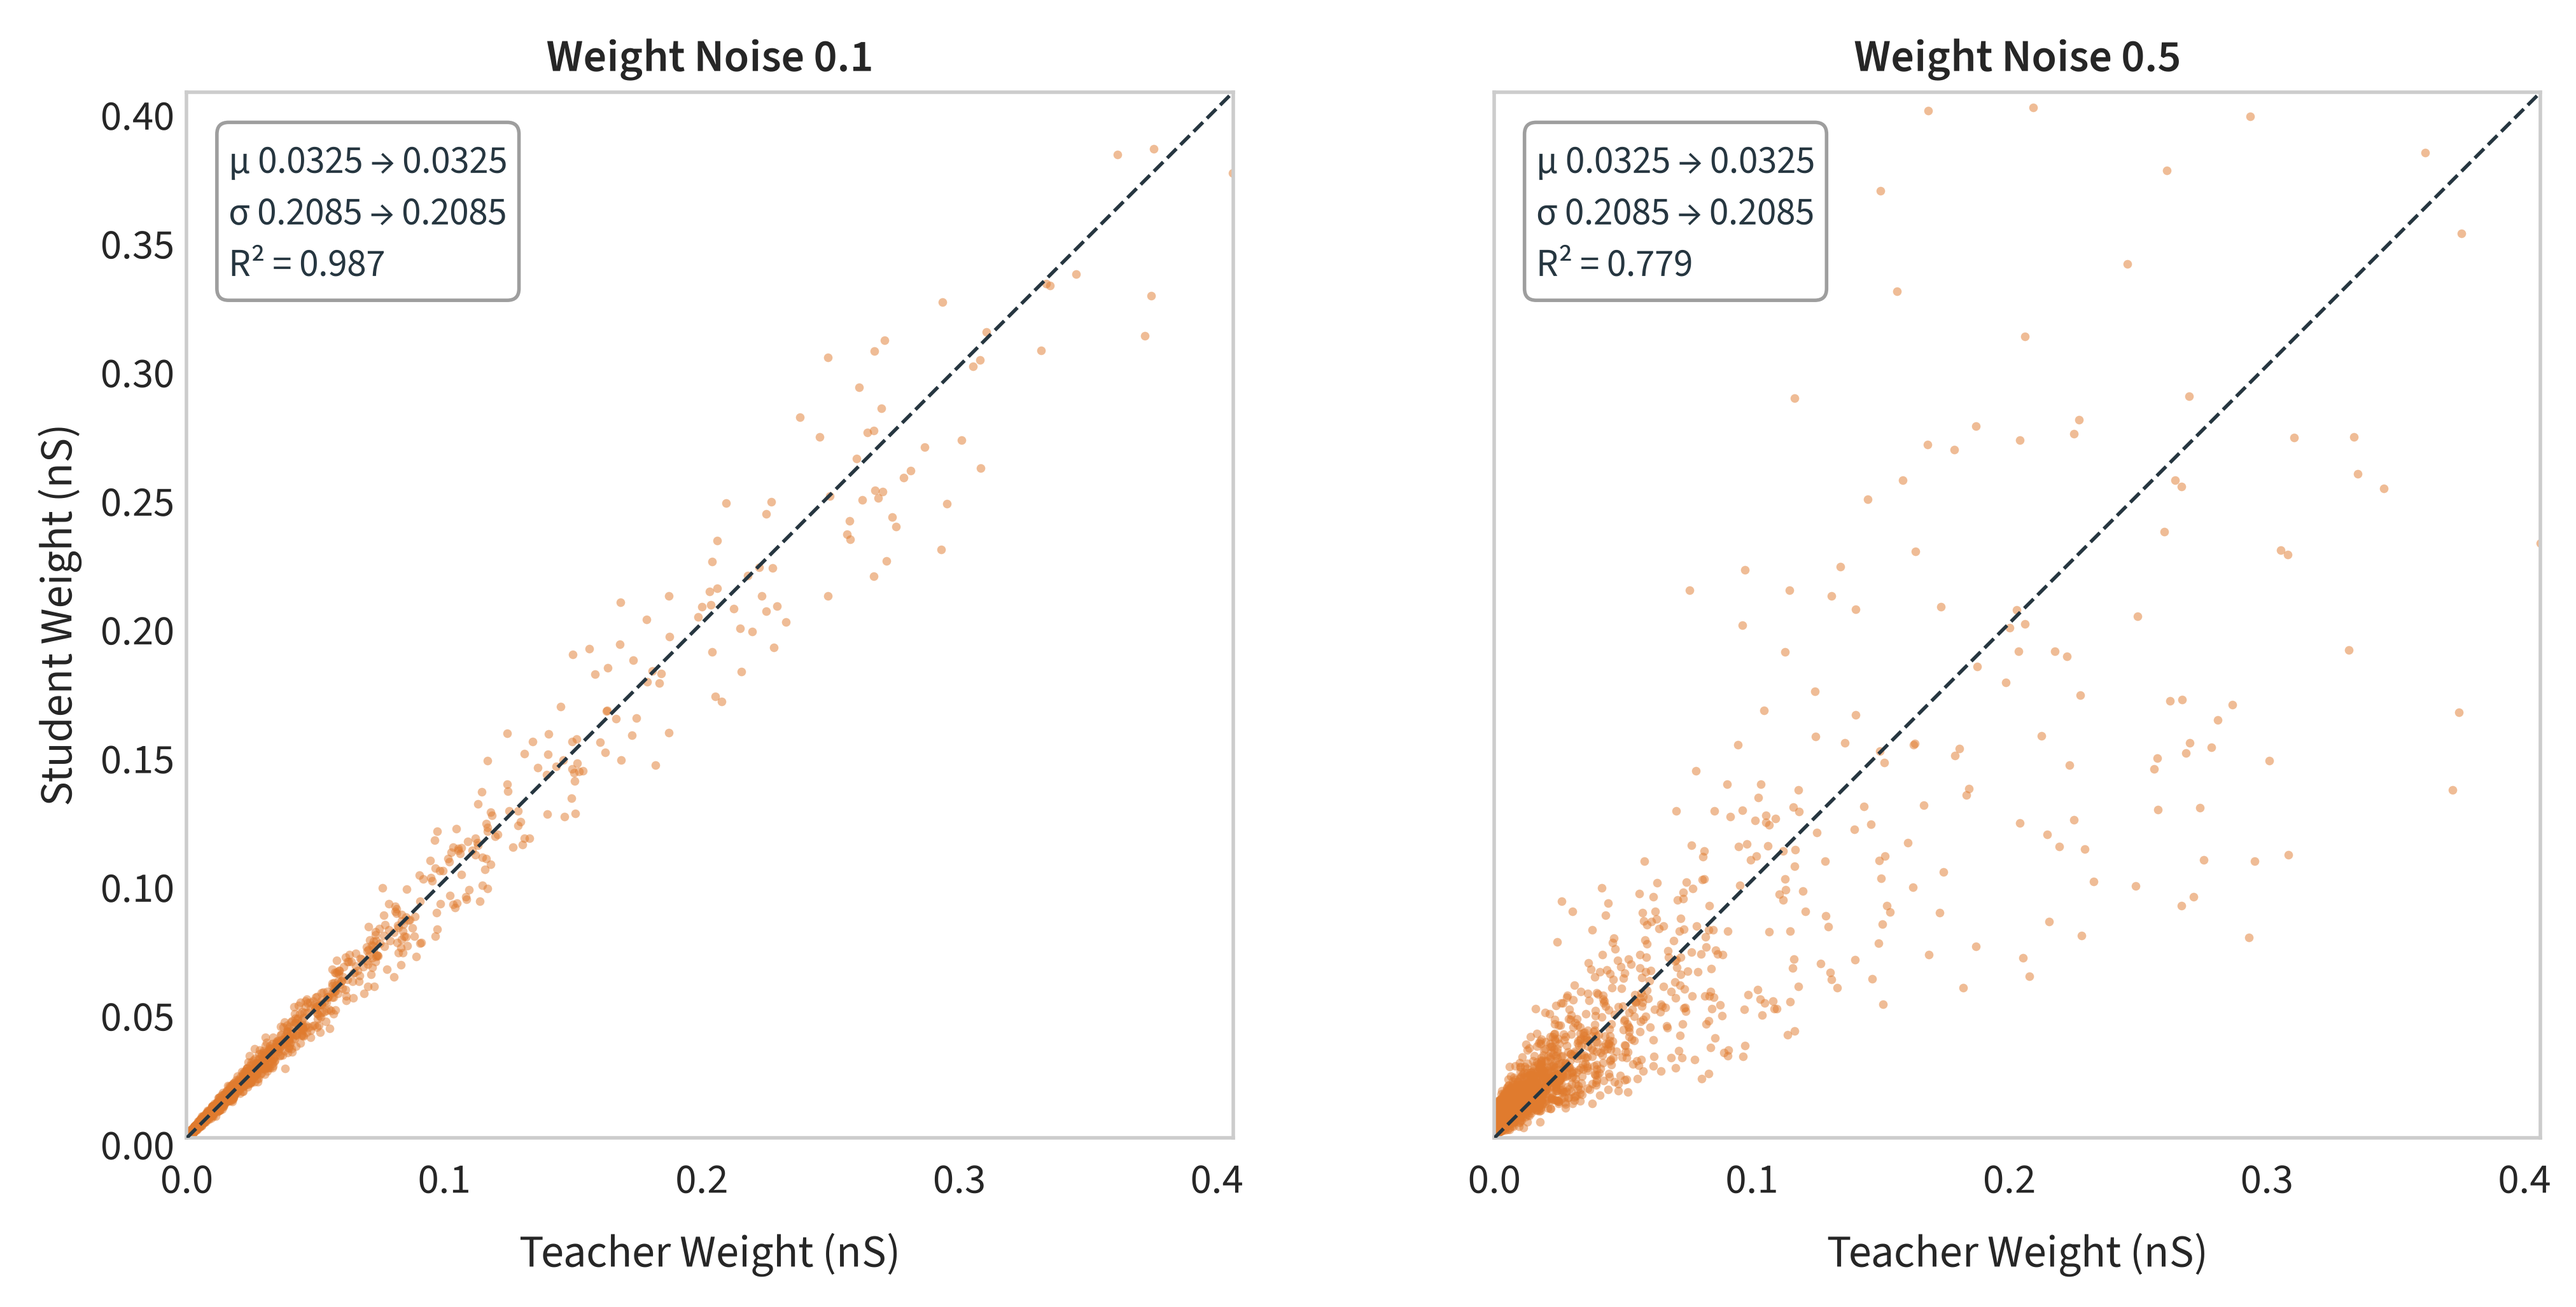
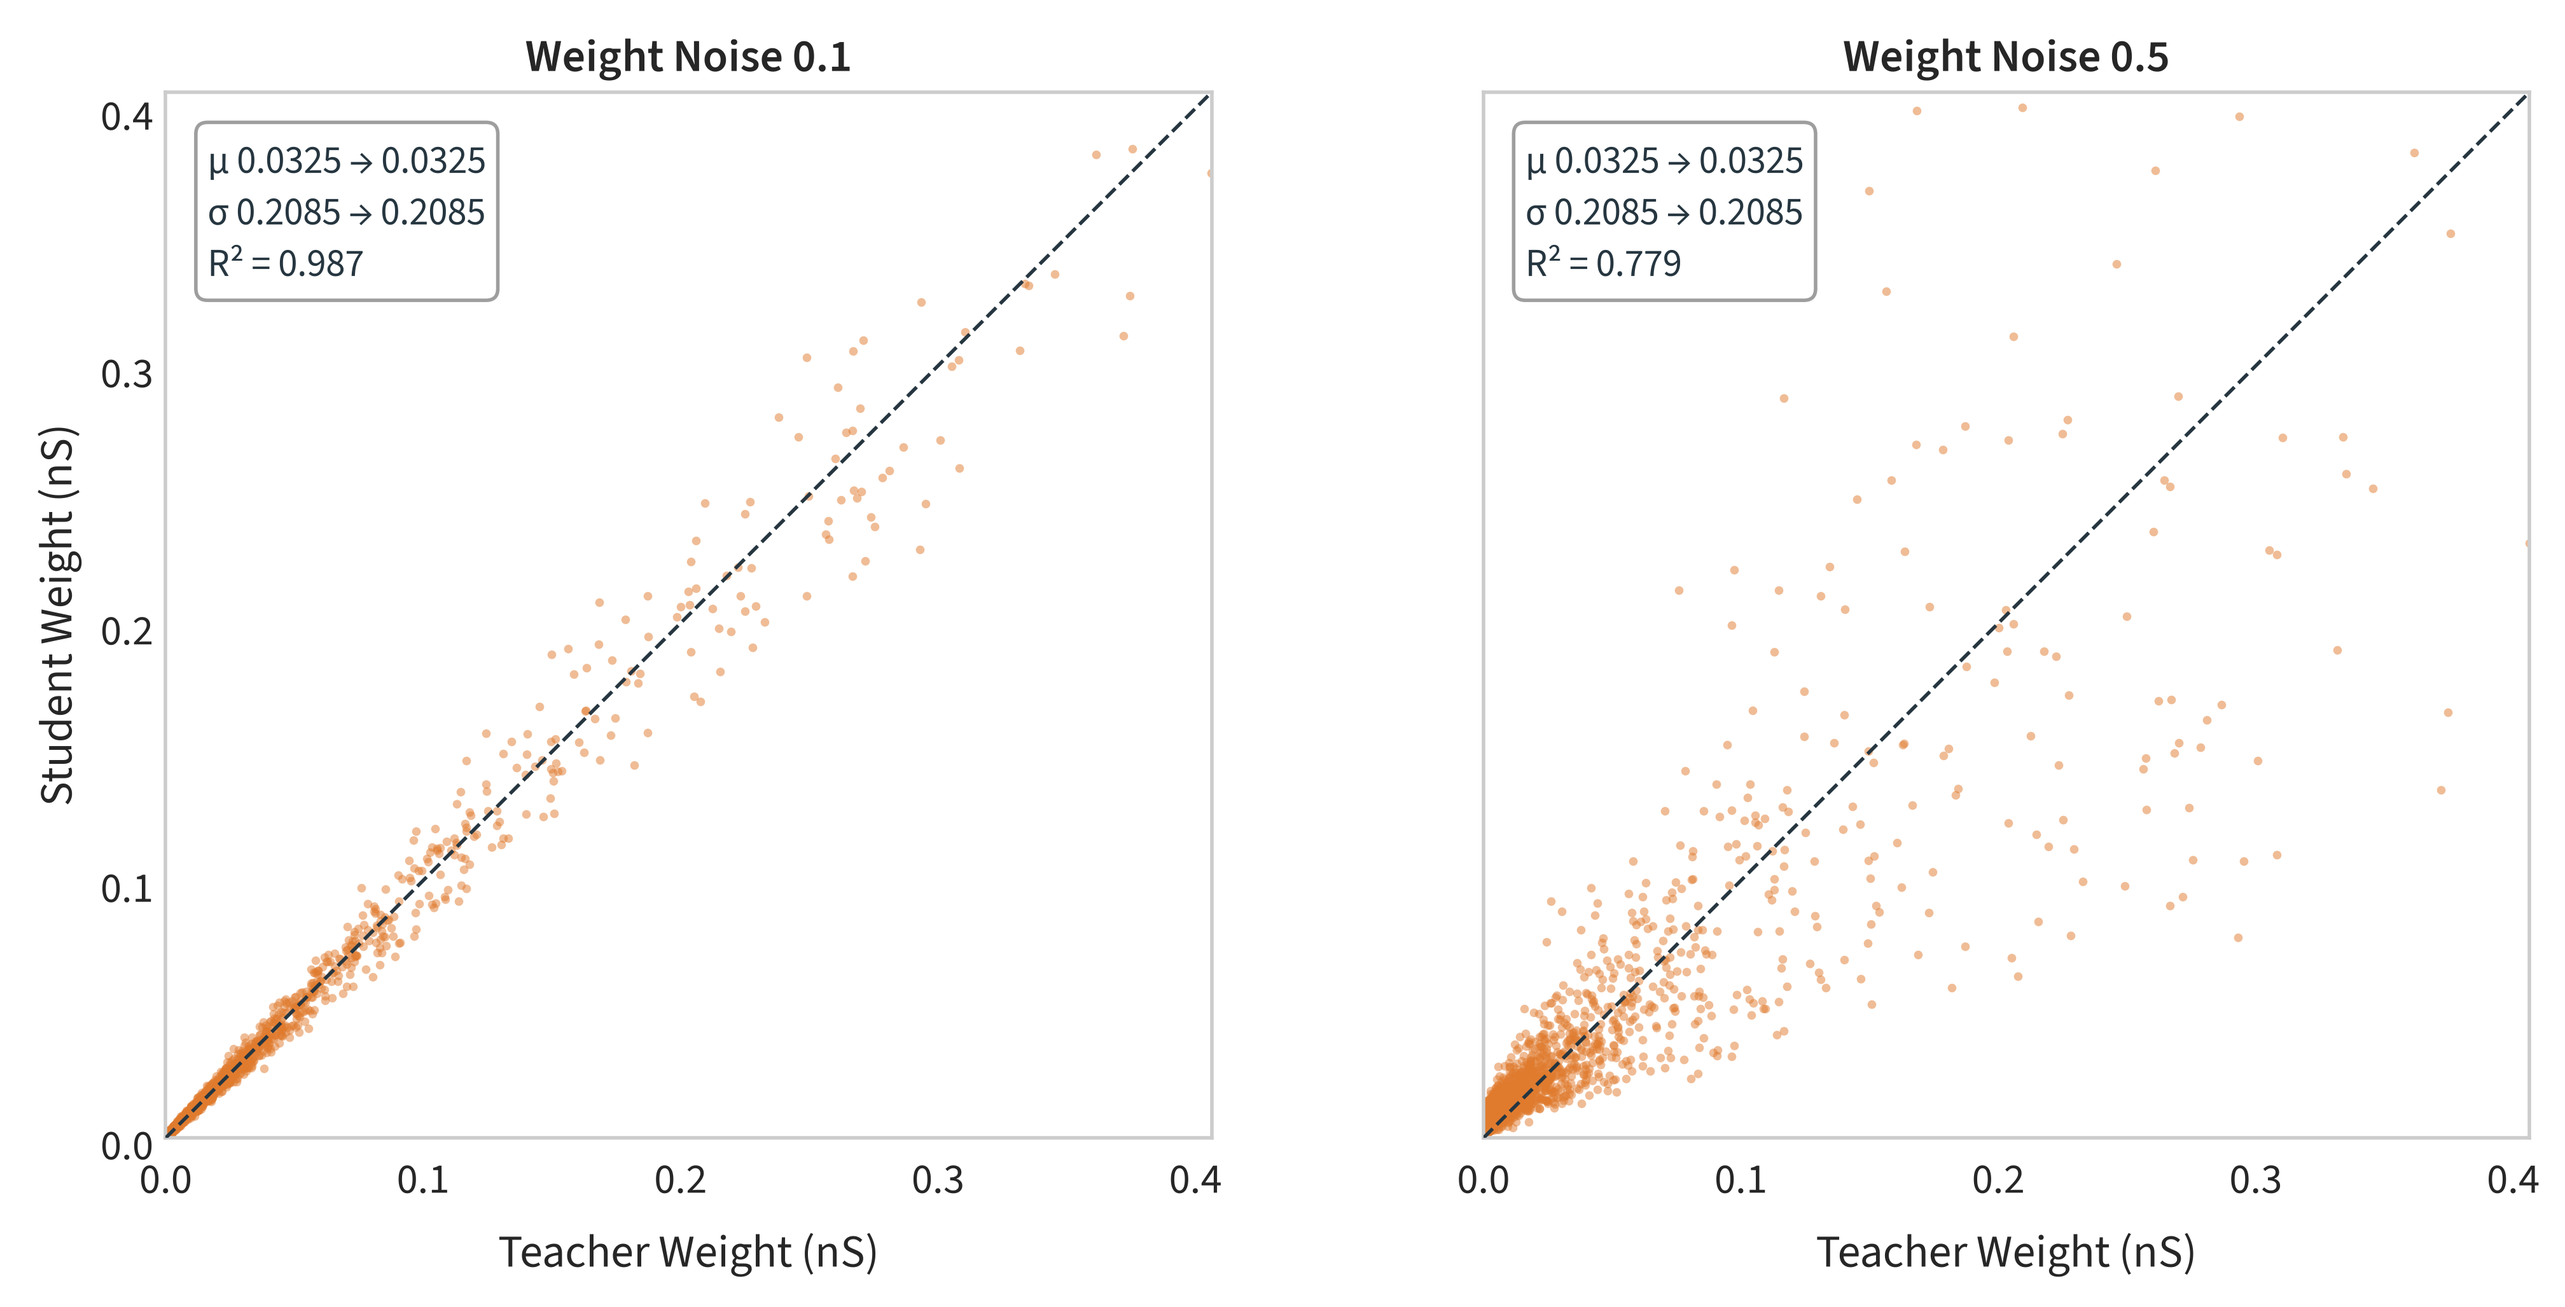
:art: Matching 0.1 ticks on both weight axes

diff --git a/fig05-weight-noise/figures.py b/fig05-weight-noise/figures.py
@@ -25,6 +25,7 @@ from pathlib import Path
 import matplotlib.pyplot as plt
 import numpy as np
 import pandas as pd
+from matplotlib.ticker import MultipleLocator
 
 sys.path.insert(0, str(Path(__file__).resolve().parents[1]))
 
@@ -63,6 +64,8 @@ GROUPS = {
 #: teacher's weights are log-normal with a long tail (a handful reach 65), so plotting
 #: the full range would put every point in one corner.
 PERTURBATION_PERCENTILE = 99.0
+#: Both weight axes carry the same ticks, so the identity line reads as the diagonal it is.
+PERTURBATION_TICK = 0.1
 
 
 def weight_perturbation(table):
@@ -99,6 +102,8 @@ def weight_perturbation(table):
         ax.set_xlim(0, limit)
         ax.set_ylim(0, limit)
         ax.set_aspect("equal")
+        ax.xaxis.set_major_locator(MultipleLocator(PERTURBATION_TICK))
+        ax.yaxis.set_major_locator(MultipleLocator(PERTURBATION_TICK))
         ax.set_xlabel("Teacher Weight (nS)")
         ax.set_title(f"Weight Noise {noise:g}")
         ax.text(
